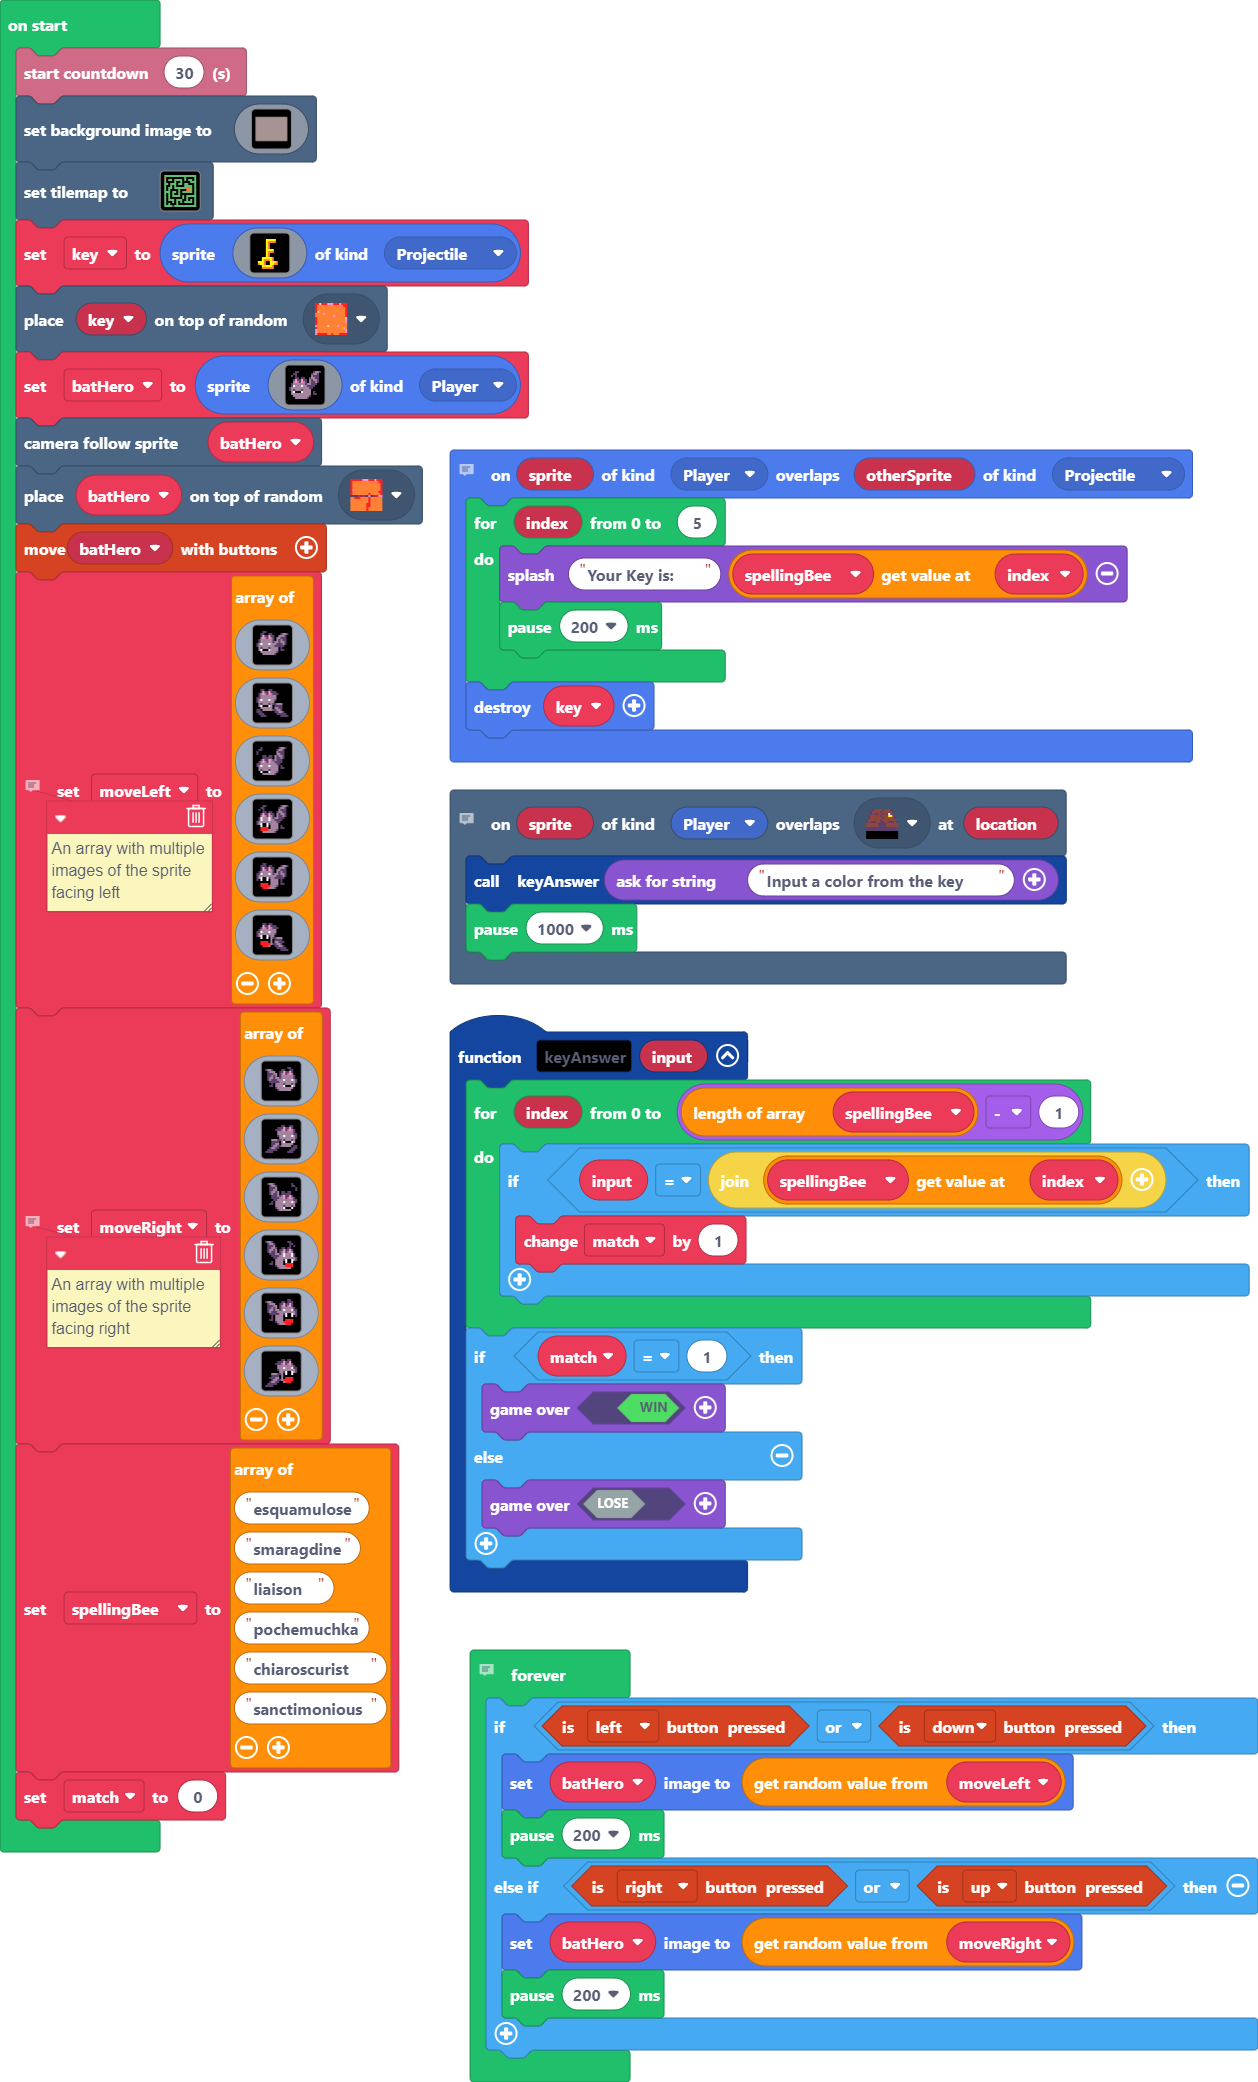
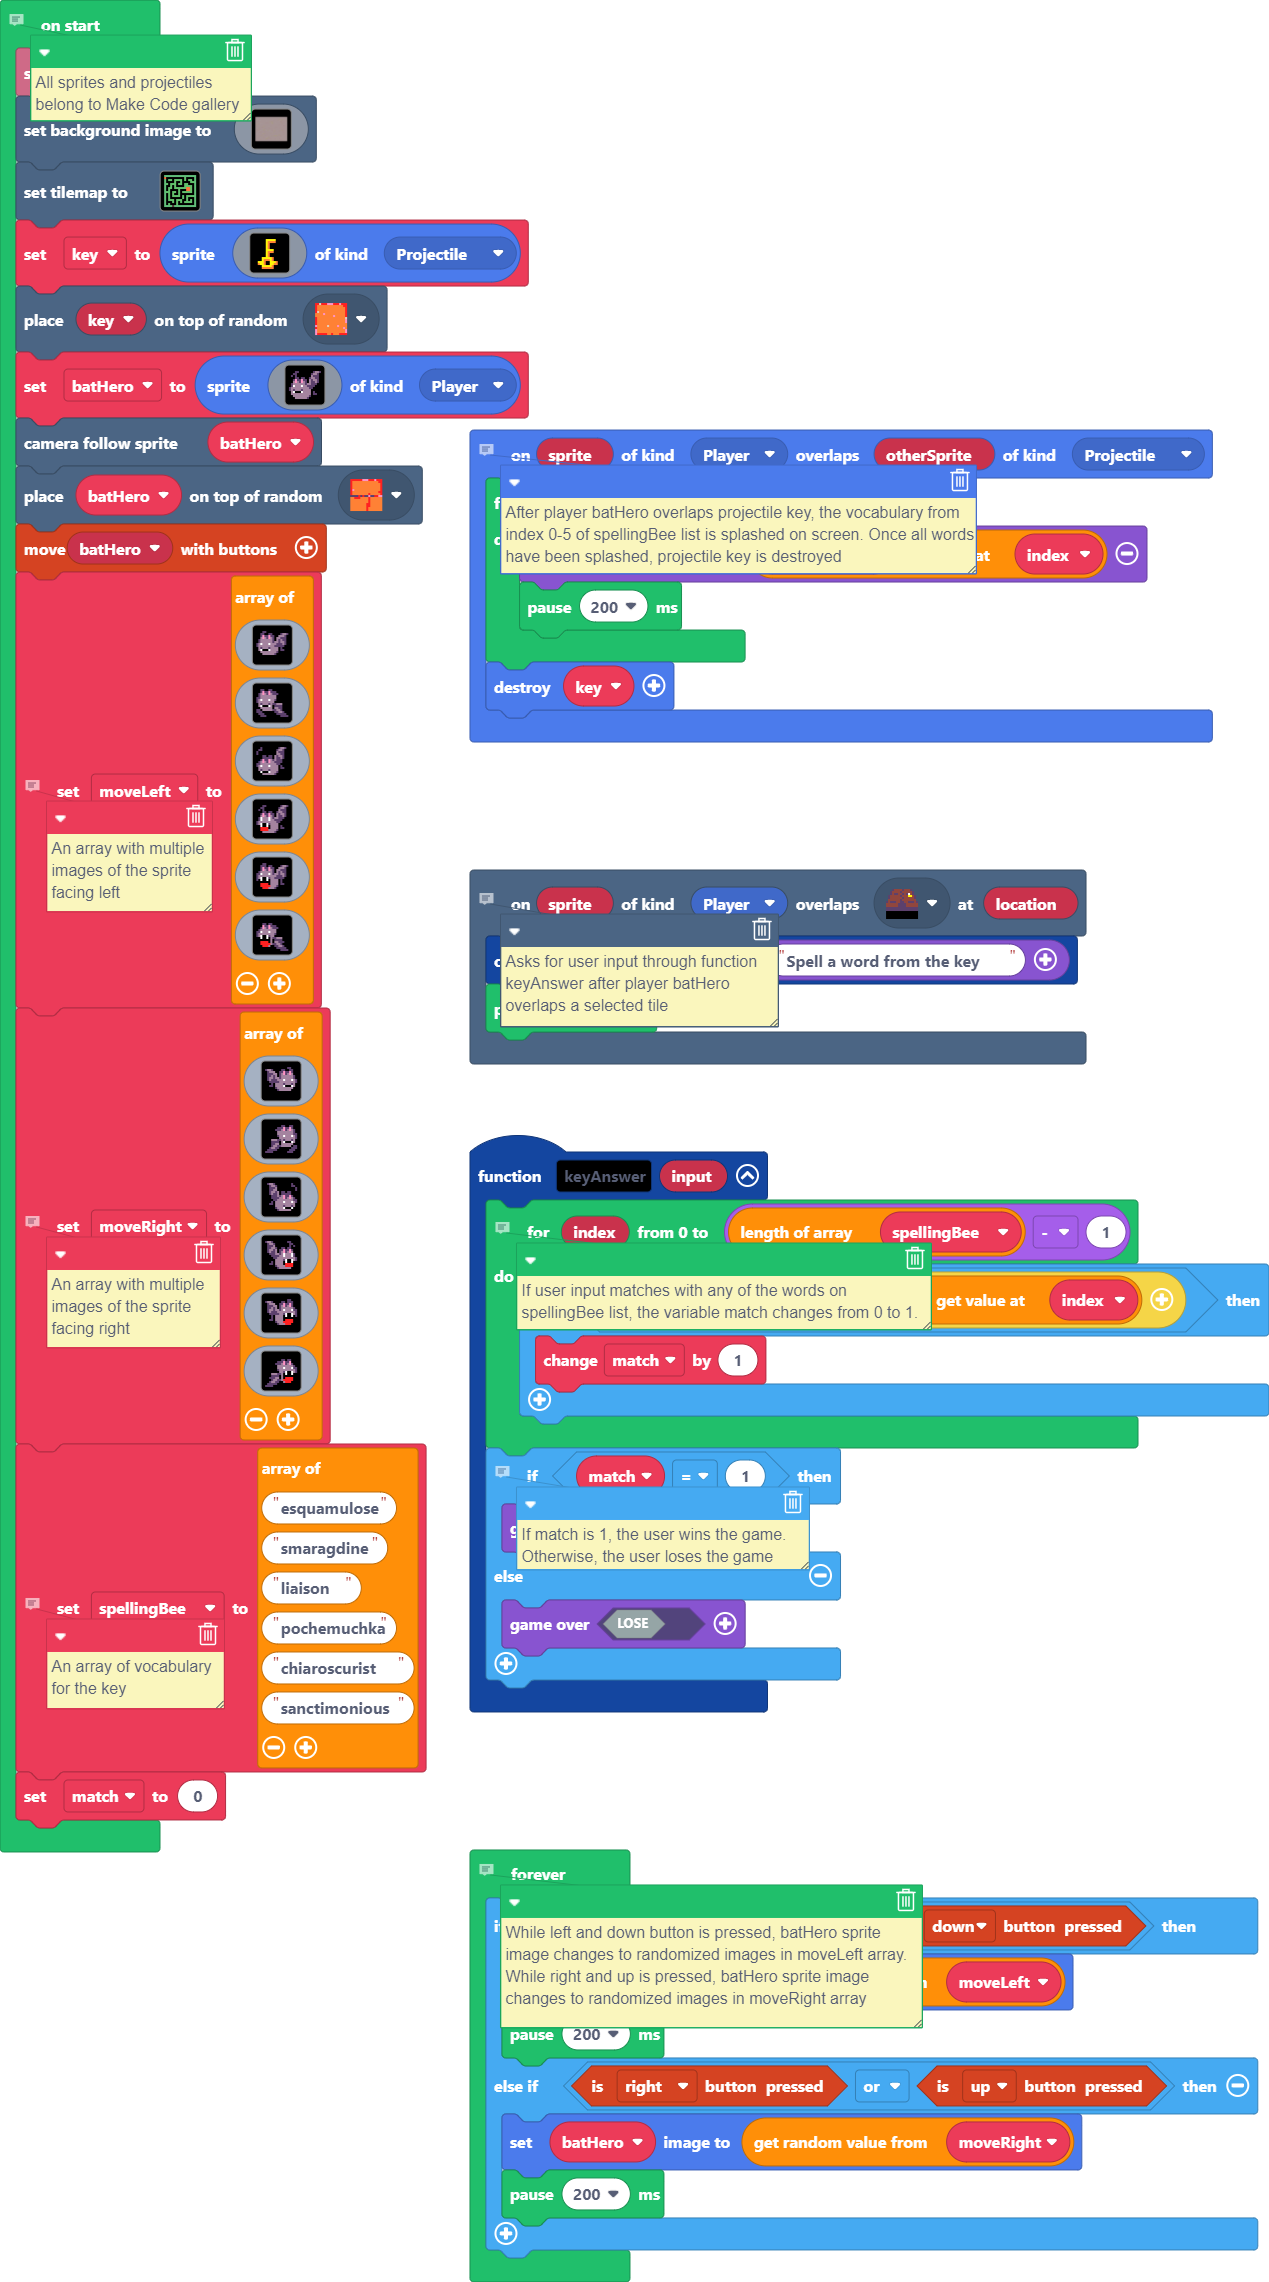
Update main.blocks, main.ts

diff --git a/main.ts b/main.ts
@@ -1,9 +1,11 @@
 function keyAnswer (input2: string) {
+    // If user input matches with any of the words on spellingBee list, the variable match changes from 0 to 1.
     for (let index = 0; index <= spellingBee.length - 1; index++) {
         if (input2 == "" + spellingBee[index]) {
             match += 1
         }
     }
+    // If match is 1, the user wins the game. Otherwise, the user loses the game
     if (match == 1) {
         game.over(true)
     } else {
@@ -12,10 +14,10 @@ function keyAnswer (input2: string) {
 }
 // Asks for user input through function keyAnswer after player batHero overlaps a selected tile
 scene.onOverlapTile(SpriteKind.Player, assets.tile`myTile7`, function (sprite, location) {
-    keyAnswer(game.askForString("Input a color from the key"))
+    keyAnswer(game.askForString("Spell a word from the key"))
     pause(1000)
 })
-// Displays keyAnswerNumber on screen after the player batHero overlaps projectile key
+// After player batHero overlaps projectile key, the vocabulary from index 0-5 of spellingBee list is splashed on screen. Once all words have been splashed, projectile key is destroyed
 sprites.onOverlap(SpriteKind.Player, SpriteKind.Projectile, function (sprite, otherSprite) {
     for (let index = 0; index <= 5; index++) {
         game.splash("Your Key is: ", spellingBee[index])
@@ -23,6 +25,7 @@ sprites.onOverlap(SpriteKind.Player, SpriteKind.Projectile, function (sprite, ot
     }
     key.destroy()
 })
+// All sprites and projectiles belong to Make Code gallery
 let match = 0
 let spellingBee: string[] = []
 let key: Sprite = null
@@ -412,6 +415,7 @@ img`
     c c c c . . . . . . . . . . . . 
     `
 ]
+// An array of vocabulary for the key
 spellingBee = [
 "esquamulose",
 "smaragdine",
